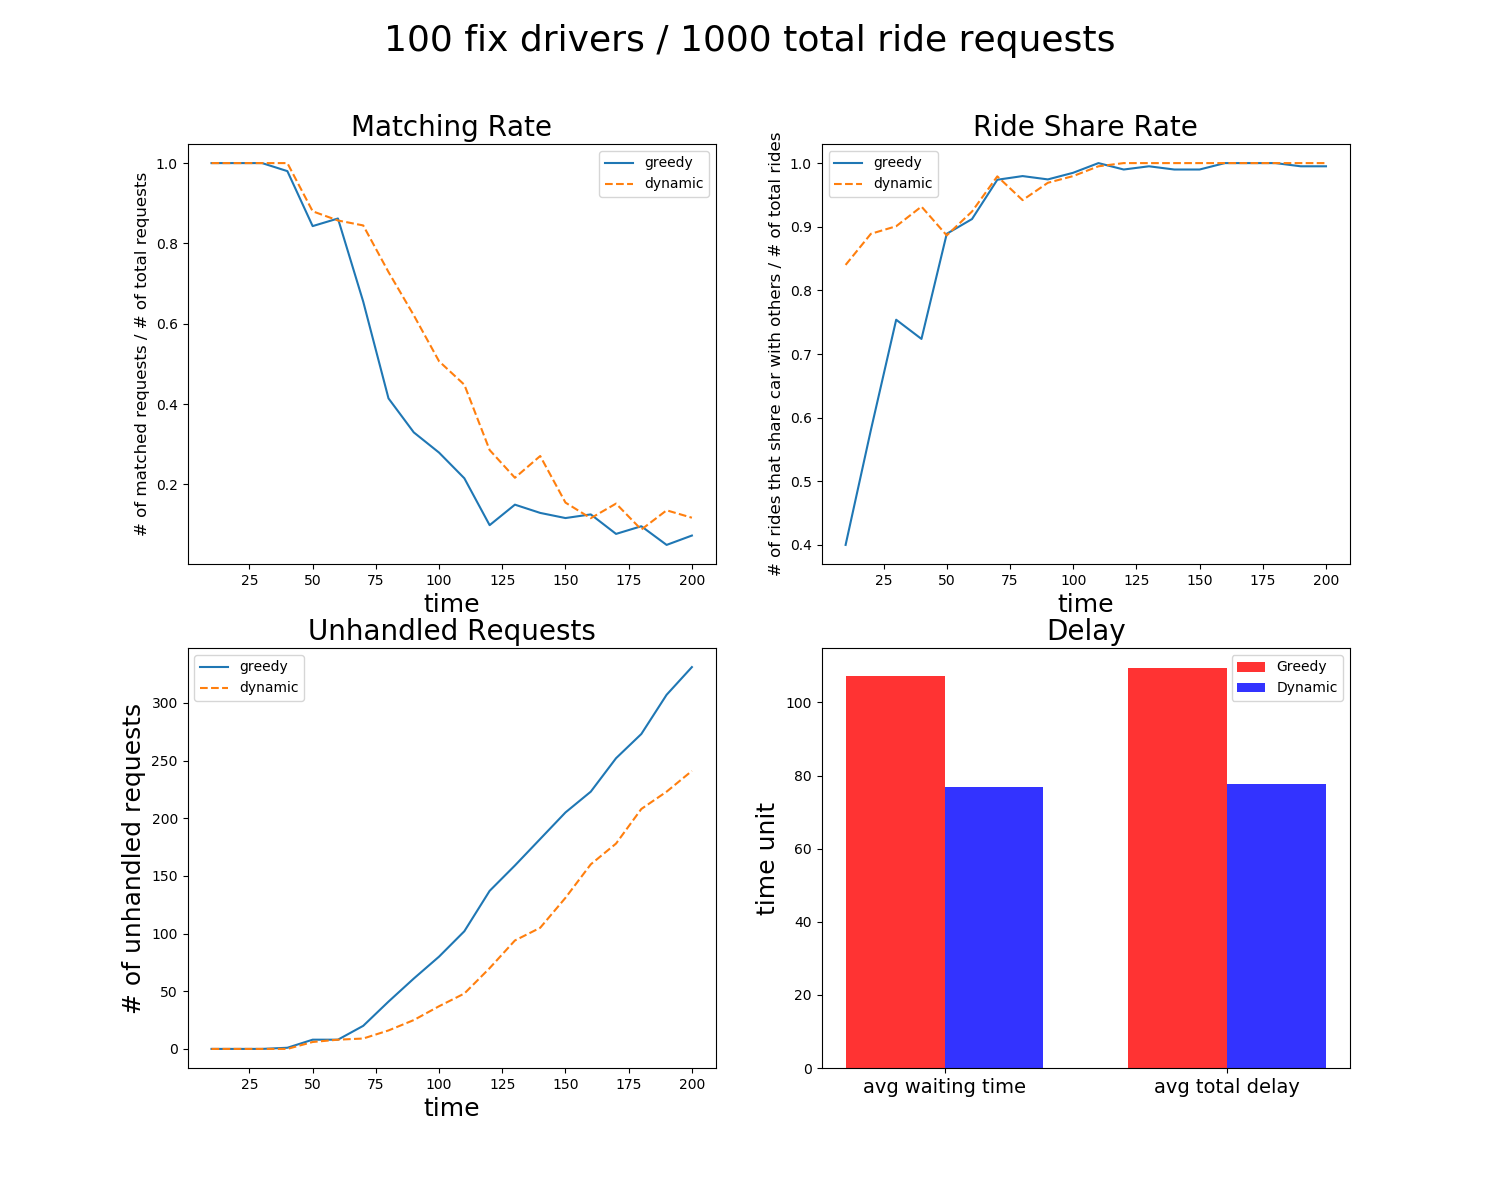
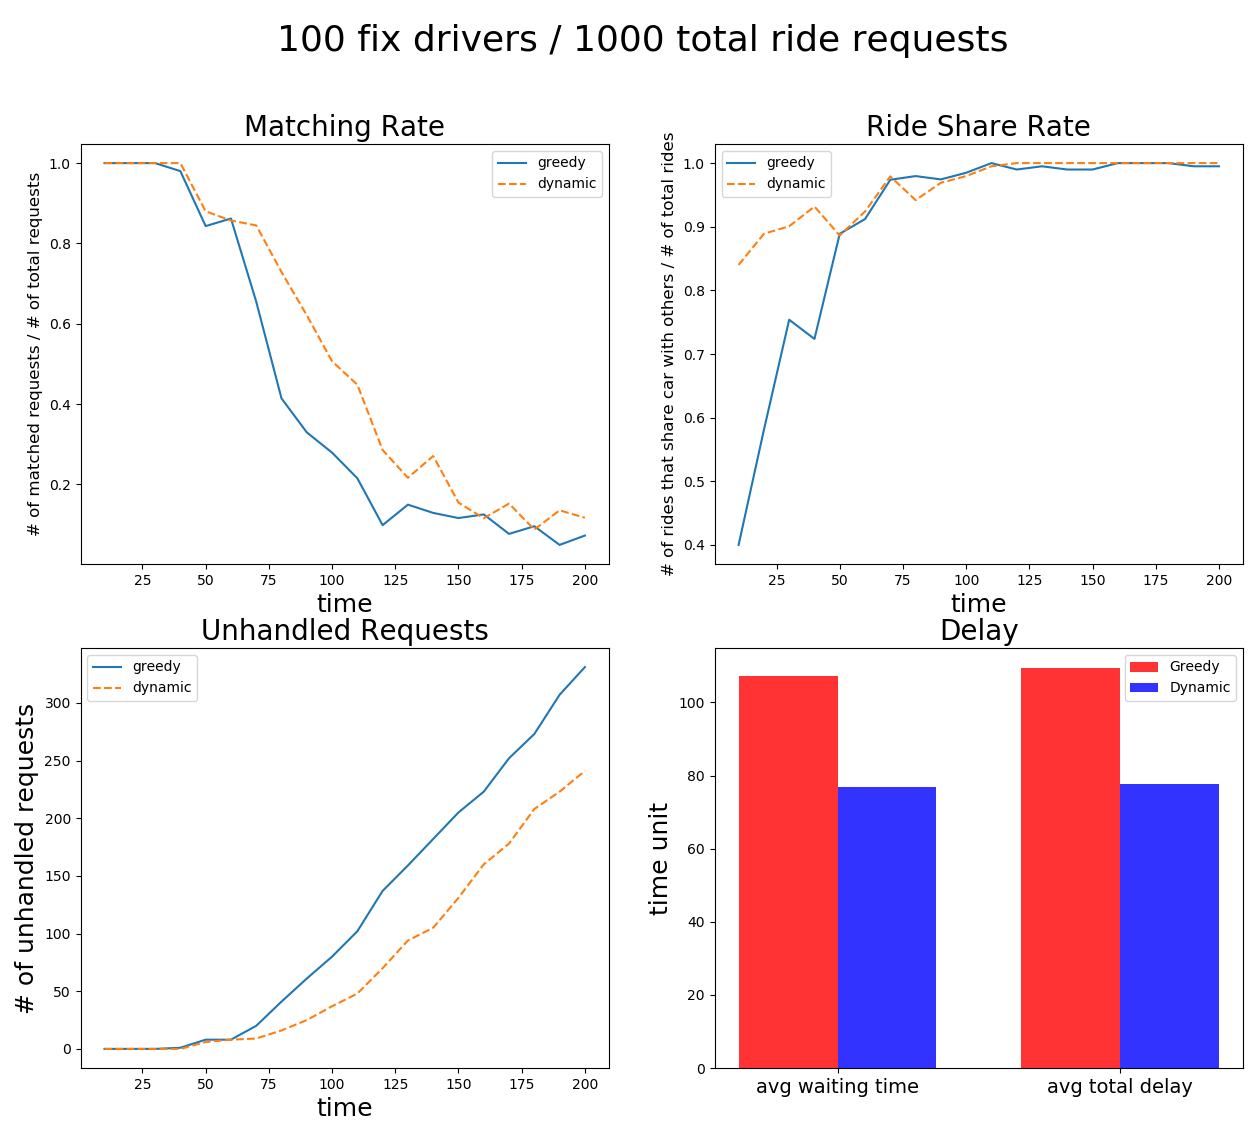
update Readme

diff --git a/README.md b/README.md
@@ -87,7 +87,8 @@ where greedy means to use greedy algorihms and means to use "On-demand high-capa
 
 # Grid World Simulator
 
-<img src="https://raw.githubusercontent.com/eric19960304/Ridesharing-App-For-HK-Back-End/master/images/demo/grid_world.png" width="400"> <img src="https://raw.githubusercontent.com/eric19960304/Ridesharing-App-For-HK-Back-End/master/images/testing/100_1000.png" width="400">
+<img src="https://raw.githubusercontent.com/eric19960304/Ridesharing-App-For-HK-Back-End/master/images/demo/grid_world.png" width="300"> <img src="https://raw.githubusercontent.com/eric19960304/Ridesharing-App-For-HK-Back-End/master/images/testing/100_1000.png" width="550">
+
 (image on the left are taken from this [website](https://towardsdatascience.com/training-an-agent-to-beat-grid-world-fac8a48109a8))
 
 
